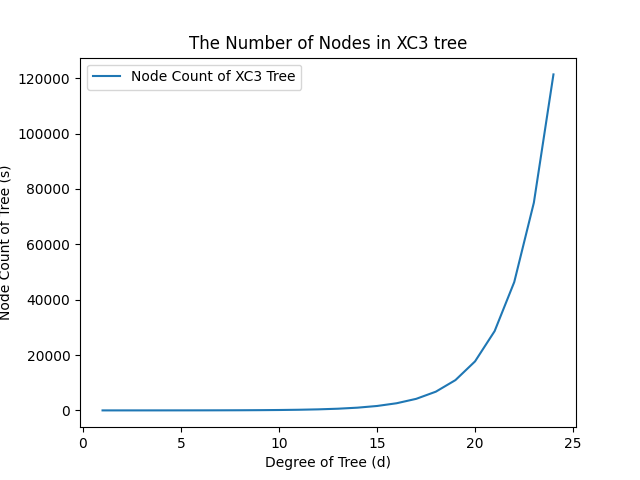
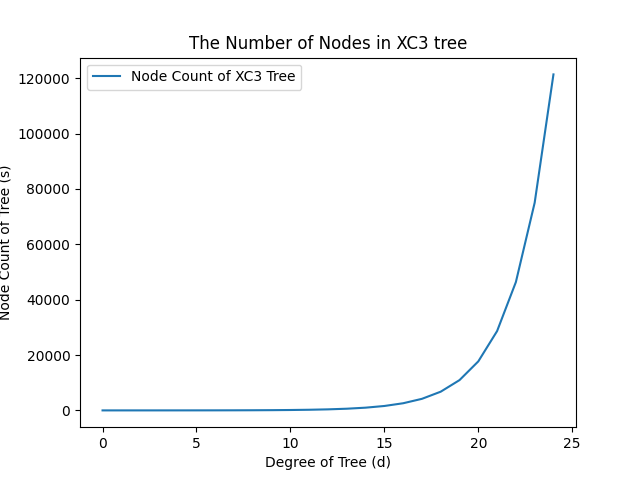
Experiment 4

diff --git a/code/experiment4.py b/code/experiment4.py
@@ -16,7 +16,7 @@ def test():
     #New Dict
     nodes = PlotGroup("Node Count of XC3 Tree")
 
-    rang = range(1,25,1)
+    rang = range(0,25,1)
     for i in rang:
         root = XC3Node(i)
         n = root.get_number_of_nodes()
